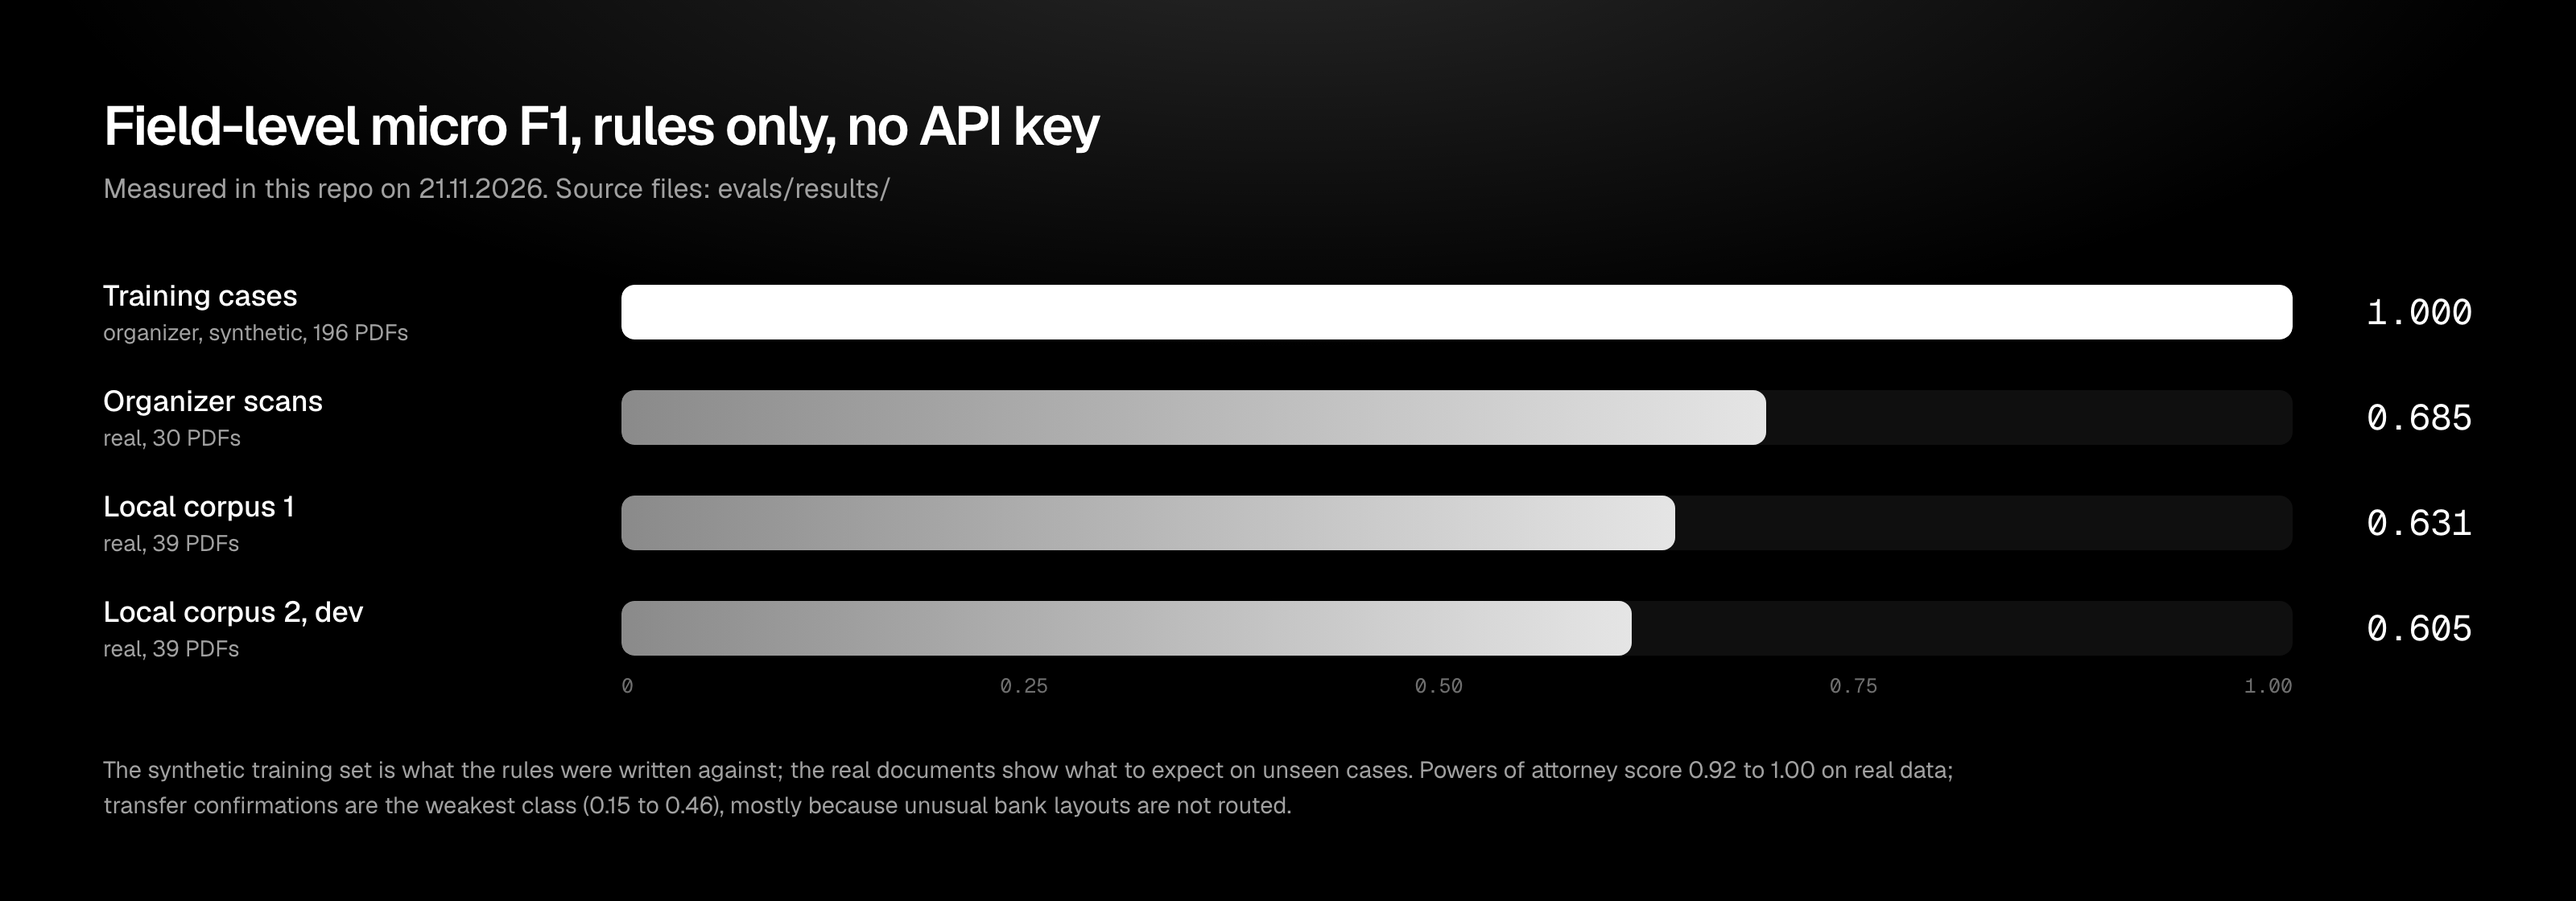
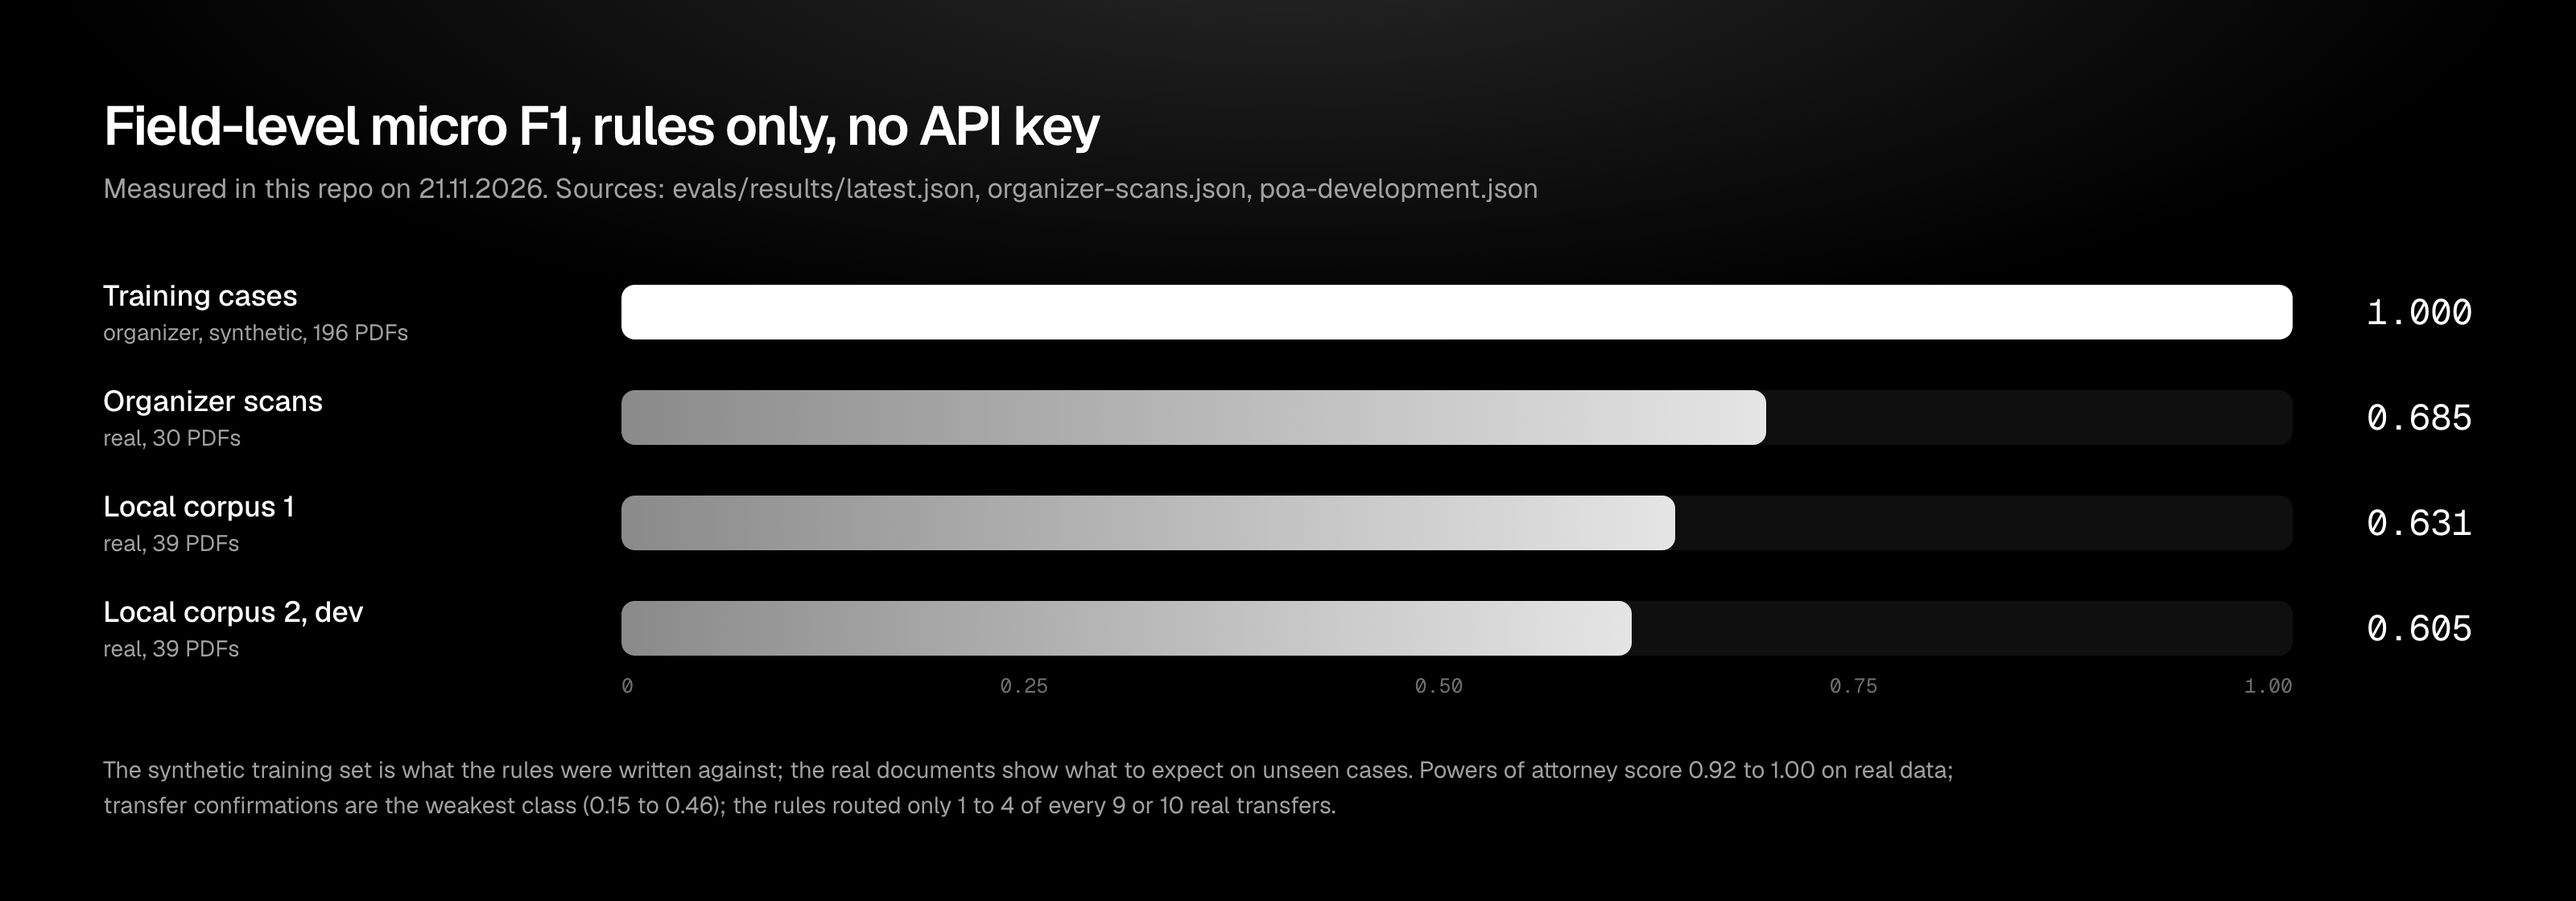
README: state the model setup, separate results from the hidden test score, cite result files

Changed region(s): [[0.25, 0.1875, 0.5938, 0.2188], [0.2812, 0.875, 0.5312, 0.9062]]

diff --git a/docs/readme/src/results.html b/docs/readme/src/results.html
@@ -15,7 +15,7 @@ h2 { font-size: 34px; font-weight: 600; letter-spacing: -.035em; }
 .note { margin-top: 34px; font-size: 14.5px; color: #a1a1a1; max-width: 1150px; line-height: 1.5; }
 </style></head><body>
 <h2>Field-level micro F1, rules only, no API key</h2>
-<p class="sub">Measured in this repo on 21.11.2026. Source files: evals/results/</p>
+<p class="sub">Measured in this repo on 21.11.2026. Sources: evals/results/latest.json, organizer-scans.json, poa-development.json</p>
 <div class="chart">
   <div class="row"><div class="name">Training cases <small>organizer, synthetic, 196 PDFs</small></div><div class="track"><div class="bar" style="width:100%"></div></div><div class="val">1.000</div></div>
   <div class="row"><div class="name">Organizer scans <small>real, 30 PDFs</small></div><div class="track"><div class="bar real" style="width:68.52%"></div></div><div class="val">0.685</div></div>
@@ -23,5 +23,5 @@ h2 { font-size: 34px; font-weight: 600; letter-spacing: -.035em; }
   <div class="row"><div class="name">Local corpus 2, dev <small>real, 39 PDFs</small></div><div class="track"><div class="bar real" style="width:60.45%"></div></div><div class="val">0.605</div></div>
 </div>
 <div class="axis"><span></span><div class="ticks"><span>0</span><span>0.25</span><span>0.50</span><span>0.75</span><span>1.00</span></div><span></span></div>
-<p class="note">The synthetic training set is what the rules were written against; the real documents show what to expect on unseen cases. Powers of attorney score 0.92 to 1.00 on real data; transfer confirmations are the weakest class (0.15 to 0.46), mostly because unusual bank layouts are not routed.</p>
+<p class="note">The synthetic training set is what the rules were written against; the real documents show what to expect on unseen cases. Powers of attorney score 0.92 to 1.00 on real data; transfer confirmations are the weakest class (0.15 to 0.46); the rules routed only 1 to 4 of every 9 or 10 real transfers.</p>
 </body></html>

diff --git a/README.md b/README.md
@@ -35,7 +35,9 @@ action and the paid fee. People read them easily; systems cannot, until the data
 - **No guessing.** A value the document does not state is `null`. Optional model output is kept only when it
   cites a supporting span of the source.
 - **Runs on the jury's laptop.** CPU only, offline OCR, installed with `pip install -r requirements.txt`. No API
-  key is needed for the default configuration.
+  key is needed for the default configuration, which uses no language model at all (rules only, 0 model
+  parameters). An optional OpenAI-compatible endpoint is described in
+  [Use a model endpoint](docs/readme/reference.md#use-a-model-endpoint).
 - **New document types in configuration.** Each class is one TOML file in `config/classes/` with its routing cues,
   fields and engines. The disabled fourth class shows how: [enable it](docs/readme/reference.md#enable-the-fourth-class).
 
@@ -50,9 +52,11 @@ action and the paid fee. People read them easily; systems cannot, until the data
 | Local corpus 1 (real) | 39 | 0.631 | 0.602 | 0.919 | 0.462 |
 | Local corpus 2, dev (real) | 39 | 0.605 | 0.601 | 0.946 | 0.152 |
 
-Rules only, no endpoint configured. The F1 definition is ours: the organizer has not published theirs.
+Rules only, no endpoint configured. None of these is the score on the organizer's hidden test set. The F1 definition
+is ours: the organizer has not published theirs.
 Method, timings and the OCR comparison: [technical reference](docs/readme/reference.md#results-on-the-training-data-synthetic).
-Raw results: [`evals/results/`](evals/results/).
+Raw results: [training](evals/results/latest.json), [organizer scans](evals/results/organizer-scans.json),
+[local corpora](evals/results/poa-development.json).
 
 ## Quick start
 
